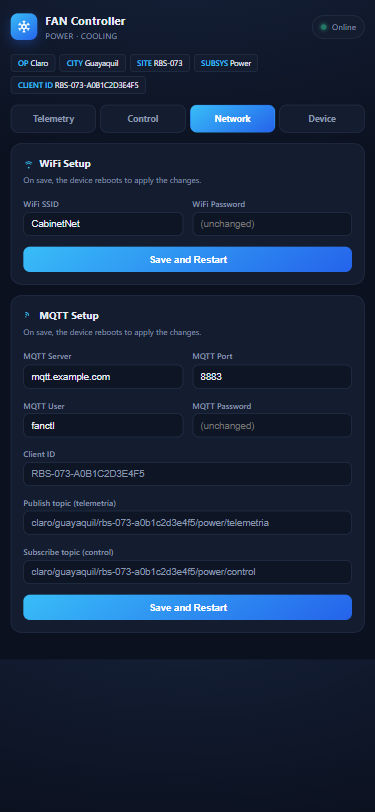
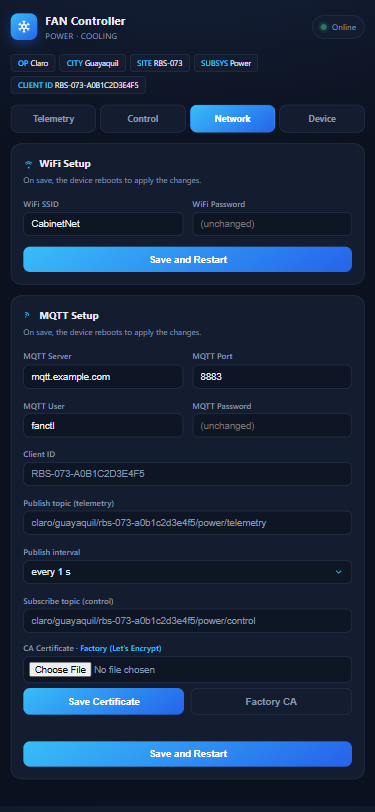
docs: README image layout per tab order + CHANGELOG + refreshed Network capture
- Hero keeps a single image; the Web dashboard section now shows the tabs
  in button order (Telemetry, Control, Network, Device) followed by the two
  popup editors; the desktop telemetry capture is removed.
- Network capture refreshed: shows the new Publish interval dropdown, the
  /telemetry topic and the CA Certificate file picker, with Save and
  Restart last.
- NEW CHANGELOG.md (Keep-a-Changelog style): Unreleased (BREAKING telemetry
  topic rename, publish interval, CA upload, curve/hysteresis/relays,
  robustness fixes) and the v6.0.0 modernization baseline.

Changed region(s): [[0.0587, 0.6773, 0.9387, 0.9544], [0.2933, 0.6158, 0.3227, 0.6466]]

diff --git a/CHANGELOG.md b/CHANGELOG.md
@@ -1,0 +1,51 @@
+# Changelog
+
+All notable user-facing changes to the NT FAN Controller firmware.
+Format inspired by [Keep a Changelog](https://keepachangelog.com/);
+versions follow the `v*` release tags (each tag publishes a flashable
+`.bin` on the Releases page).
+
+## [Unreleased]
+
+### Changed — ⚠️ BREAKING
+- **Telemetry topic suffix renamed:** the device now publishes to
+  `<operator>/<city>/<site>-<mac>/<subsystem>/telemetry` (was
+  `/telemetria`). Broker authorization rules and subscriber wildcards must
+  be updated to match. `/control` is unchanged.
+
+### Added
+- **Publish interval** (MQTT Setup): dropdown presets from 1 s to 5 min for
+  the MQTT publish cadence, NVS-persisted (default 1 s = previous behavior).
+- **CA Certificate upload** (MQTT Setup): load your broker's CA from a file
+  (Choose File), stored in NVS and applied on the next reconnect; a
+  Factory CA button restores the built-in Let's Encrypt root. Brokers with
+  a non-Let's Encrypt chain no longer require a reflash.
+- **Configurable PWM curve**: power-law `n + (1−n)·xᵖ` edited by dragging
+  two points on a live graph (tap a FAN gauge in Control); live FAN1/FAN2
+  radial gauges colored by duty.
+- **Configurable temperature hysteresis**: draggable alarm reset band
+  (Schmitt trigger) beside the High Temp threshold.
+- **Configurable relay mapping** (OUT1–4 → temp/door/fan alarms, mutual
+  exclusion) and **fan-alarm logic** (OR / AND / single fan).
+- **BME280 driver** (I2C temperature/humidity/pressure) — ready, dormant
+  until a sensor is connected.
+- Tab persistence across reloads; OTA upload progress with inline result.
+
+### Fixed
+- Offline detection now shows within ~5–7 s (bounded requests, no more
+  minute-long TCP hangs) and no longer flaps on reconnect.
+- Intermittent blank dashboard on reload (portal now streamed chunked with
+  a size-tracking reserve).
+- Touch UX: no stray tap-highlight rectangles, taps no longer land on the
+  neighboring element (the 2 s refresh updates data only, never layout),
+  no reload flicker (snapshot restore).
+- Tachometer pulse counter guarded with a critical section (no lost edges).
+- Full English UI (config values such as the subsystem list remain user
+  data).
+
+## [6.0.0] — 2026-07-04
+End-to-end modernization: pioarduino platform (Arduino core 3.x /
+ESP-IDF 5.x), real TLS validation (ISRG Root X1), NVS runtime config with
+web portal + browser OTA, dedicated FreeRTOS control task decoupled from
+networking, thermal failsafe, AP rescue mode with auto STA recovery,
+SNTP timestamps, CI builds + tagged releases.

diff --git a/README.md b/README.md
@@ -12,9 +12,7 @@ live monitoring, tuning and OTA updates — every operating parameter is
 runtime-configurable from the browser, no recompile in the field.
 
 <p align="center">
-  <img src="images/dashboard-telemetry-mobile.png" width="260" alt="Telemetry (mobile)">
-  <img src="images/dashboard-control-mobile.png" width="260" alt="Control — PWM gauges & relay mapping (mobile)">
-  <img src="images/dashboard-pwm-curve-mobile.png" width="260" alt="PWM curve editor (mobile)">
+  <img src="images/dashboard-telemetry-mobile.png" width="300" alt="NT FAN Controller — dashboard (mobile)">
 </p>
 
 ## Highlights
@@ -51,13 +49,15 @@ the layout never re-renders), snapshot restore on reload, and touch-optimized
 controls. Works in station mode and in the rescue AP.
 
 <p align="center">
+  <img src="images/dashboard-telemetry-mobile.png" width="260" alt="Telemetry tab (mobile)">
+  <img src="images/dashboard-control-mobile.png" width="260" alt="Control tab — PWM gauges & relay mapping (mobile)">
   <img src="images/dashboard-network-mobile.png" width="260" alt="Network tab — WiFi & MQTT setup (mobile)">
-  <img src="images/dashboard-device-mobile.png" width="260" alt="Device tab — identity & OTA (mobile)">
-  <img src="images/dashboard-hysteresis-mobile.png" width="260" alt="Hysteresis editor (mobile)">
 </p>
 
 <p align="center">
-  <img src="images/dashboard-telemetry-desktop.png" alt="Telemetry (desktop)">
+  <img src="images/dashboard-device-mobile.png" width="260" alt="Device tab — identity & OTA (mobile)">
+  <img src="images/dashboard-pwm-curve-mobile.png" width="260" alt="PWM curve editor (popup)">
+  <img src="images/dashboard-hysteresis-mobile.png" width="260" alt="Hysteresis editor (popup)">
 </p>
 
 - **Telemetry** — cabinet temperature with history graph and level colors,